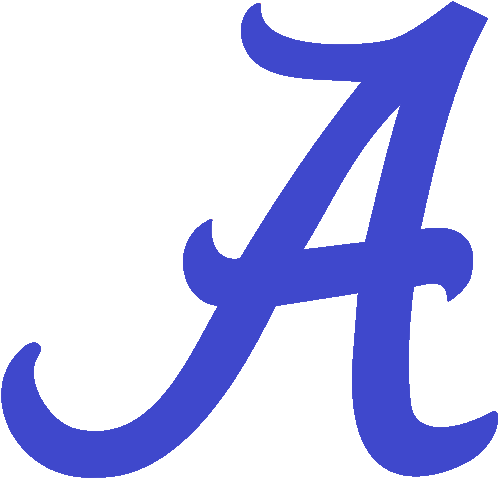
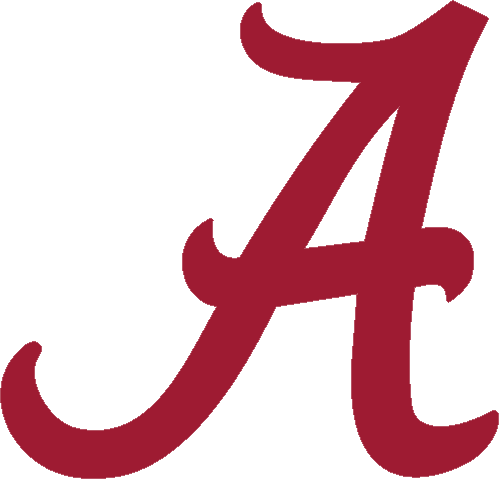
Update colors

diff --git a/css/styles.css b/css/styles.css
@@ -19,7 +19,8 @@ time, mark, audio, video {
 /**/
 
 body {
-  background: #EEF2F5;
+  background: #828A8F;
+  /*background: #EEF2F5;*/
 
   font-family: 'Nunito', sans-serif;
 
